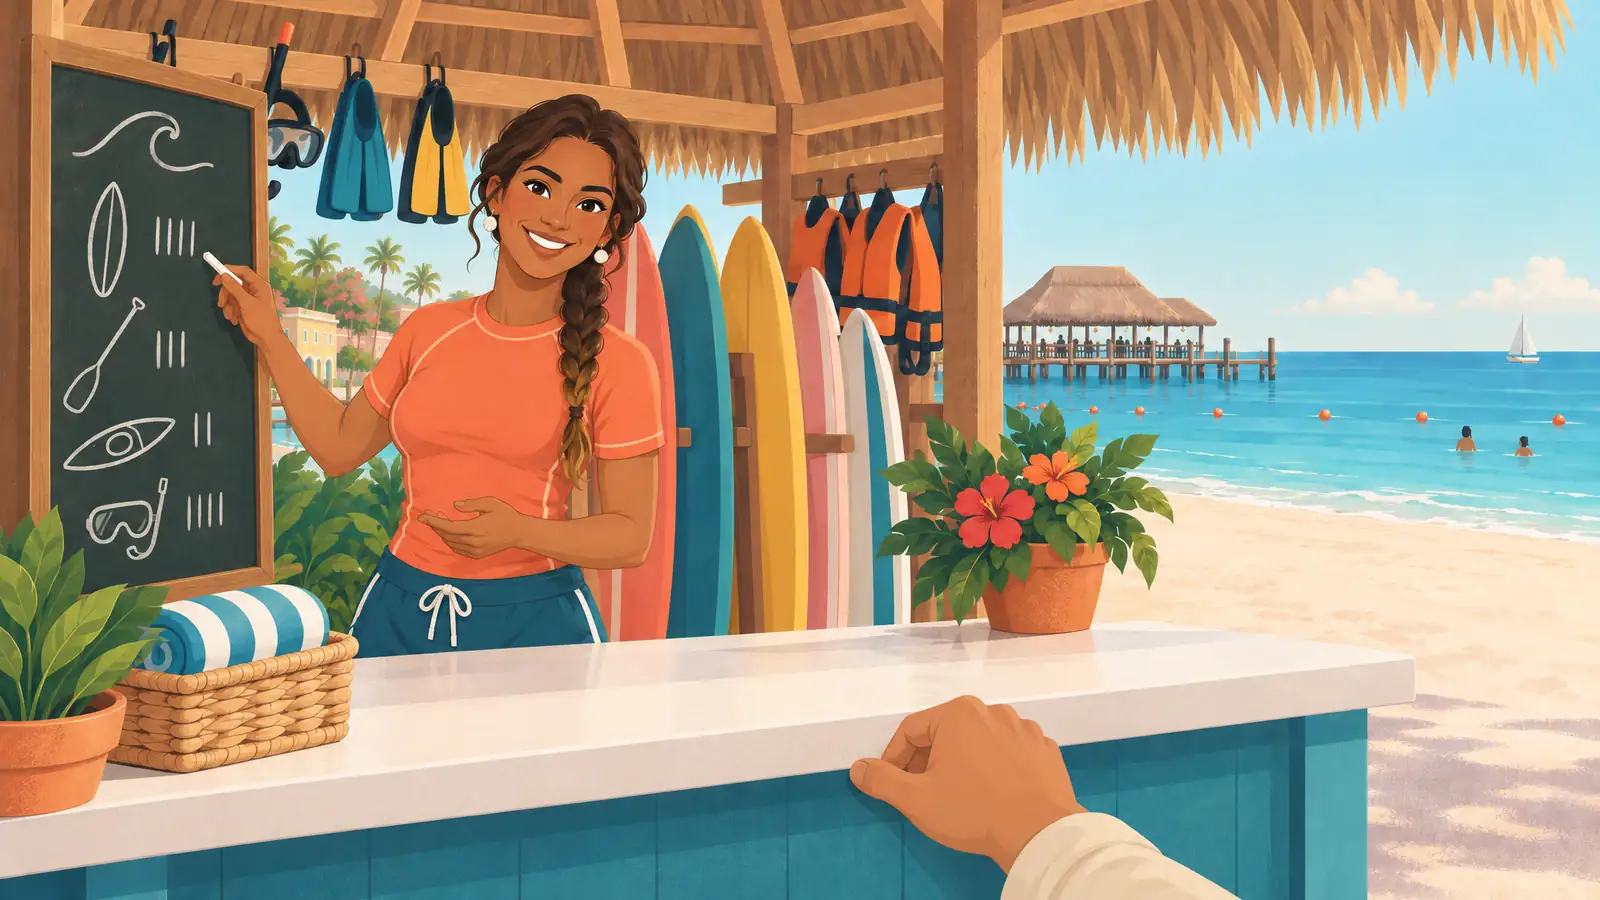
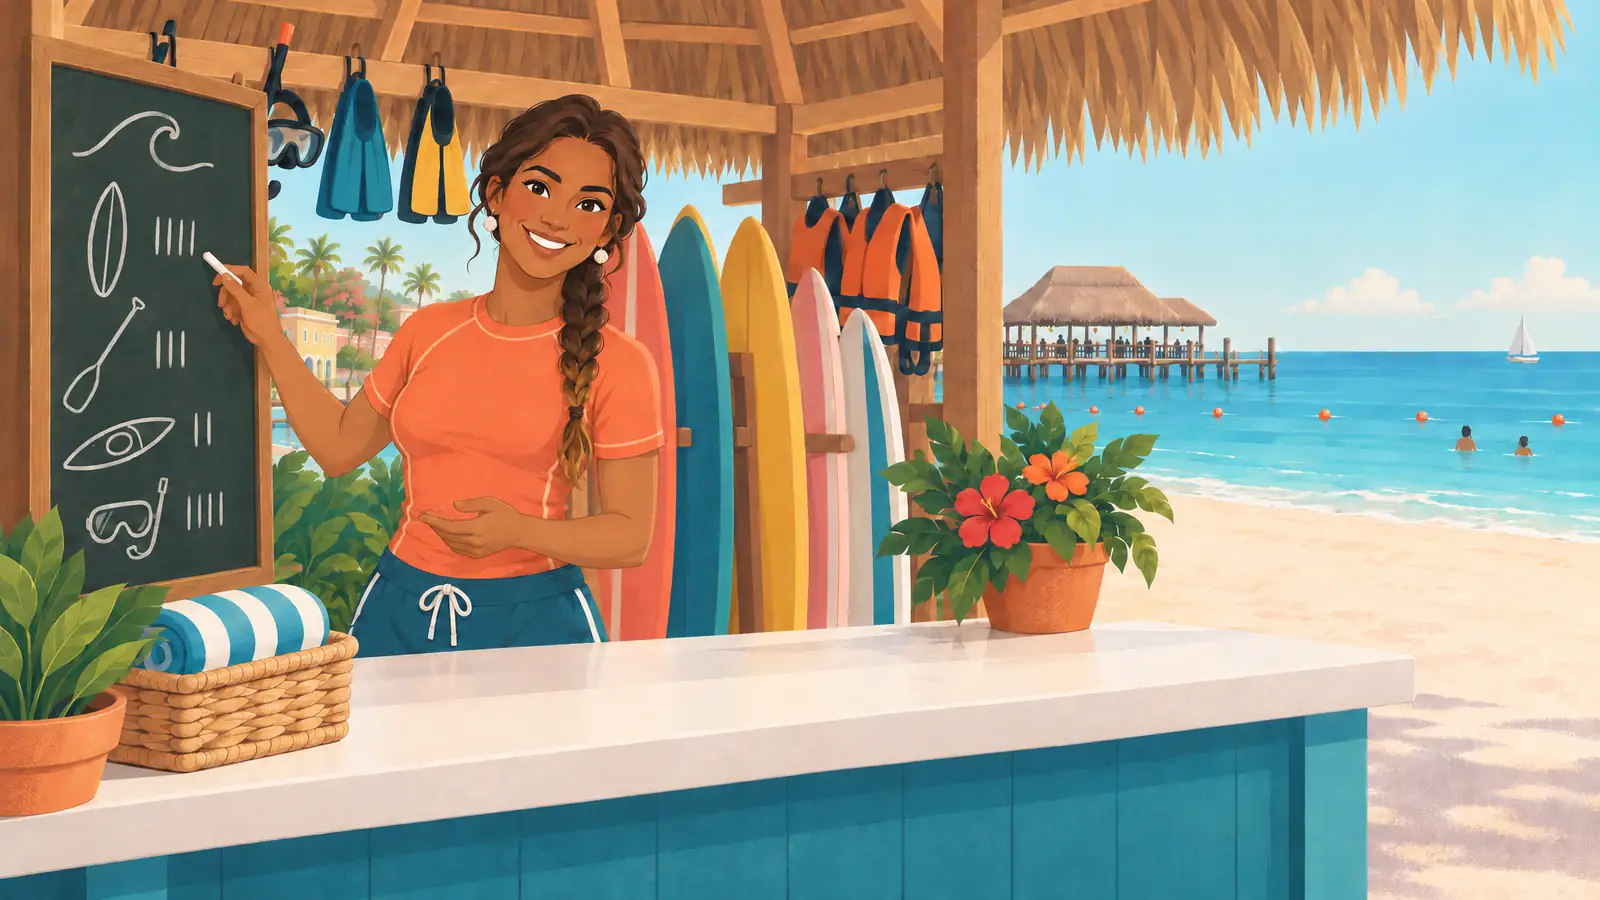
Spanish pictures: Nikté's last ten, the chalkboard fixed, the surf lesson's cue pictures, x01–x03's card pictures
x03-alux-nikte has its 36 pictures and its "done" picture (she steps aside); x01-surf/chalk without the stray hand.
The manifest x01-surf-game: 17 pictures for the mini-game's cues (web versions in the work folder, not wired).
The 19 phrase groups of x01–x03 have their card pictures (the work folder's cards/card-art.json).

diff --git a/docs/es/PICTURES.md b/docs/es/PICTURES.md
@@ -667,8 +667,15 @@ for lots of amazing pictures"; `STOP_USD` went from $75 to $80). Manifests: `ref
 - **Checked**: every picture looked at on sheets (faces, hands, the place, no letters; `review_text.py` reads only the
   glyph stones as "O:"); `scene-walk.ts x01 x02 x03` (0 errors); in the real game on a phone and a computer (the
   picture on, the 3D chip, each line's picture in turn).
-- **The surf lesson's cues** (`x01-surf-game`, 17 pictures planned for the mini-game's `sg_` lines: the boards,
-  lying down, paddling, ducking under, the line-up, "this one", up, left, right, knees, eyes, speed, crest, drop, a
-  jump): for its cards; their web versions go to `<work>/x-new3/surf-game/web/`, not `public/`: nothing shows them yet.
+- **The surf lesson's cues** (`x01-surf-game`, 17 pictures for the mini-game's `sg_` lines, seen from the learner's
+  own board: the boards, lying down, paddling, ducking under, the tumble, the line-up, "too small", "this one", up,
+  left, right, knees, eyes, speed, crest, drop, a jump): for its cards; `lines` in the manifest says which cues each
+  shows. Their web versions are in `<work>/x-new3/surf-game/web/`, not `public/`: nothing shows them yet. `right` is
+  `left` mirrored (the edit leaned the wrong way).
 - **Cards** (`cards.py`, `card-probe-es.ts`: brought in from the `es-card-art` branch): the probe takes `--only`, and
-  `cards.py map PROBE --only …` merges new conversations into the map; 19 phrase groups (x01 9, x02 6, x03 4).
+  `cards.py map PROBE --only …` merges new conversations into the map; 19 phrase groups (x01 9, x02 6, x03 4), each
+  with its picture (two redone: a stranger drawn where the game picture has nobody; banknotes that looked like
+  dollars). `<work>/cards/card-art.json` now lists 53 conversations, 864 group pictures, 496 scene crops.
+- **Cost** (the ledger): $8.85 for x01–x03 in all: the 7 references $0.43, 113 scene pictures and one fix $7.35 (104
+  through the regular API before the credits ran out at $7.03 of balance, 10 in batches after the owner's top-up),
+  the 17 cue pictures (19 requests) $0.83, the 21 card pictures $0.24. Spent in all: $60.96.
